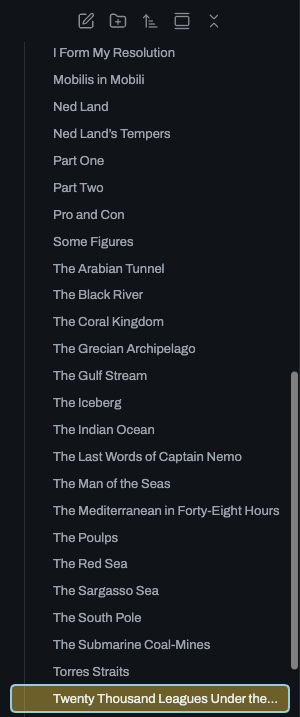
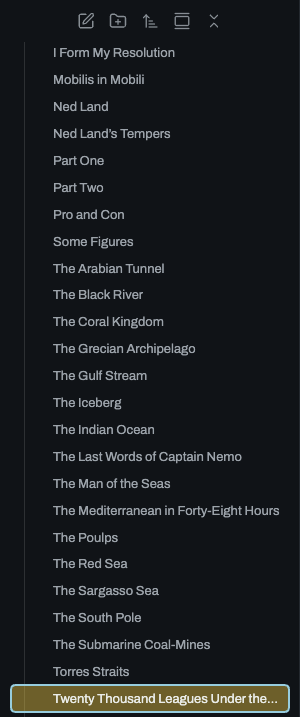
Hold the scrollbars still for the vault and swap pictures
A scrollbar the platform draws as an overlay fades, and a picture taken
while one is fading differs from the same picture taken again.

Claude-Session: https://claude.ai/code/session_01W8B97NSfPKzCyjRDF5RMRp

Changed region(s): [[0.96, 0.5216, 1.0, 0.9512]]

diff --git a/e2e/harness/obsidian.ts b/e2e/harness/obsidian.ts
@@ -424,6 +424,7 @@ export class Obsidian {
         // The app styles its own scrollbars, so this has to outrank it.
         style.textContent =
           `${what.floating}, ${what.hovered} { visibility: hidden }` +
+          "* { scrollbar-width: none !important }" +
           "*::-webkit-scrollbar { display: none !important }";
         document.head.append(style);
       },
@@ -481,7 +482,7 @@ export class Obsidian {
    * it had. The API declares neither the width nor the setter.
    */
   async sidebar(width: number, side: Side = "right"): Promise<number> {
-    return this.page.evaluate((want) => {
+    const had = await this.page.evaluate((want) => {
       const { leftSplit, rightSplit } = window.app.workspace;
       const split = (want.side === "left" ? leftSplit : rightSplit) as unknown as {
         size: number;
@@ -493,6 +494,13 @@ export class Obsidian {
       split.setSize(want.width);
       return had;
     }, { width, side });
+    // A view in a sidebar builds nothing while the sidebar is still
+    // away, so the width is not set until the sidebar is open.
+    await this.page.waitForFunction((on) => {
+      const { leftSplit, rightSplit } = window.app.workspace;
+      return !(on === "left" ? leftSplit : rightSplit).collapsed;
+    }, side);
+    return had;
   }
 
   /** One row of a fuzzy pick's suggestions. */

diff --git a/e2e/shots.spec.ts b/e2e/shots.spec.ts
@@ -259,16 +259,11 @@ test("the vault picture is the file tree and the book note's own Markdown", asyn
   await site.obsidian.still();
   await site.obsidian.asSource();
   // The tree draws nothing while its sidebar has no room, and an
-  // earlier picture may have put that sidebar away. Asking for the tree
-  // builds it, and a tree asked for while the sidebar is still moving
-  // comes up empty, so the ask is repeated until one holds rows.
+  // earlier picture may have put that sidebar away. The sidebar is
+  // opened and given its room first, then the tree is asked for.
   await site.obsidian.sidebar(TREE_WIDTH, "left");
-  await expect(async () => {
-    await site.obsidian.command(SHOW_TREE);
-    await expect(site.obsidian.view(EXPLORER)).toContainText(FOLDER, {
-      timeout: 2000,
-    });
-  }).toPass({ timeout: 30_000 });
+  await site.obsidian.command(SHOW_TREE);
+  await expect(site.obsidian.view(EXPLORER)).toContainText(FOLDER);
   // The book note is opened as Markdown so the picture is of the text
   // on disk. Opening it also tells the tree which folder to unfold.
   await site.obsidian.open(BOOK);
